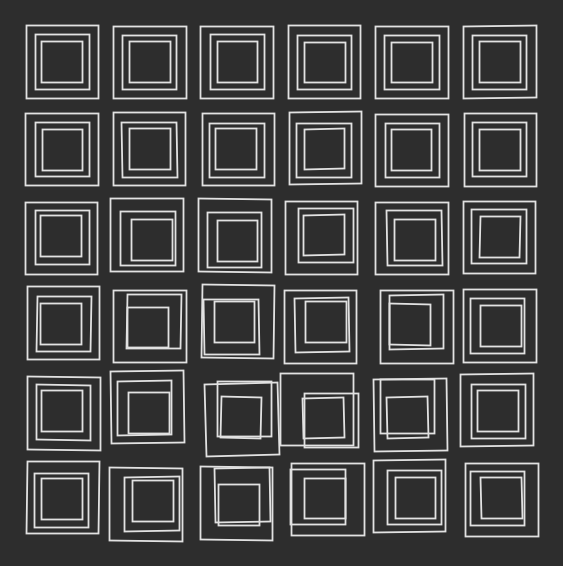
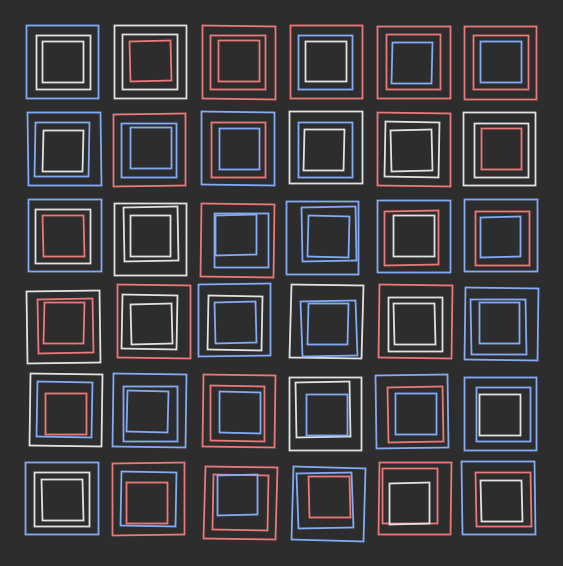
fix(py5): sync Molnar port to per-cell size jitter and add layers for colour

diff --git a/sketches/processing/molnar_squares/molnar_squares.py b/sketches/processing/molnar_squares/molnar_squares.py
@@ -21,11 +21,11 @@ N_ROWS = 6
 PADDING_MM = 5.0  # vsketch used 0.5 cm
 NESTS = 3
 NEST_SCALE = 0.75
-JITTER_POS = 0.1  # fraction of the cell pitch
-JITTER_ANGLE = 1.0  # degrees
-JITTER_SCALE = 1.0  # 1 = none, 1.1 or 0.9 = +/-10%
-SPREAD = 0.5  # bell width, as a fraction of the grid reach
-LAYERS = 1  # squares are assigned a random layer
+JITTER_POS = 0.06  # fraction of the cell pitch
+JITTER_ANGLE = 1.5  # degrees
+JITTER_SCALE = 1.0  # whole-nest size factor: 1 = none, 1.1 or 0.9 = +/-10%
+SPREAD = 0.7  # bell width, as a fraction of the grid reach
+LAYERS = 3  # squares are assigned a random layer (shows as colour on screen)
 
 OMIT_STEP = 0.2  # value the O key toggles between 0 and this
 SEED_INITIAL = 42
@@ -105,20 +105,23 @@ def compute_squares() -> list[tuple[float, float, float, float, float, int]]:
             # bell weight: 1 at the focus, falling off with distance
             w = math.exp(-((math.dist((cx, cy), ref) / sigma) ** 2))
 
+            # one size factor per cell, shared by every ring, so the whole
+            # nested block scales together (every ring reacts)
+            block_scale = 1.0 + rng.uniform(-amplitude * w, amplitude * w)
+
             for i in range(NESTS):
                 # draw all randoms before the omit roll, so changing `omit`
                 # only removes squares without moving the others
                 dx = rng.uniform(-offset * w, offset * w)
                 dy = rng.uniform(-offset * w, offset * w)
                 angle = rng.uniform(-JITTER_ANGLE * w, JITTER_ANGLE * w)
-                scale = 1.0 + rng.uniform(-amplitude * w, amplitude * w)
                 layer = rng.randint(1, LAYERS)
 
                 if rng.random() < omit:
                     continue
 
                 size = cell_w * NEST_SCALE**i
-                squares.append((cx + dx, cy + dy, angle, scale, size, layer))
+                squares.append((cx + dx, cy + dy, angle, block_scale, size, layer))
 
     return squares
 
